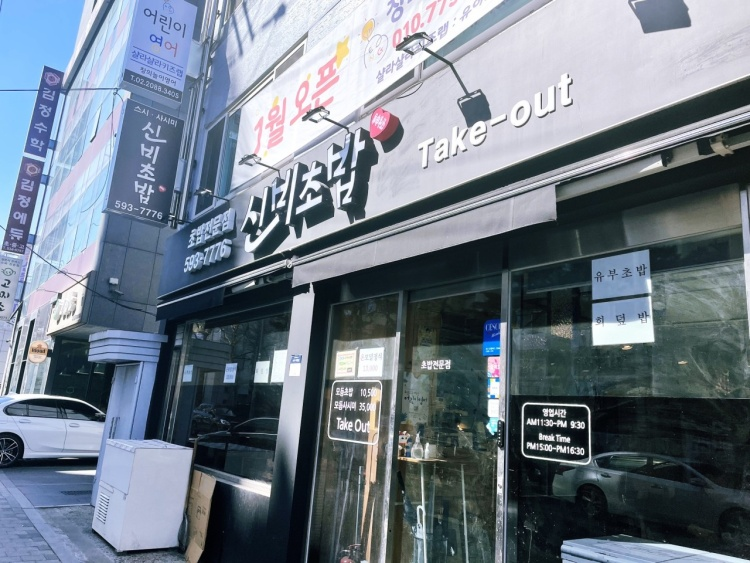
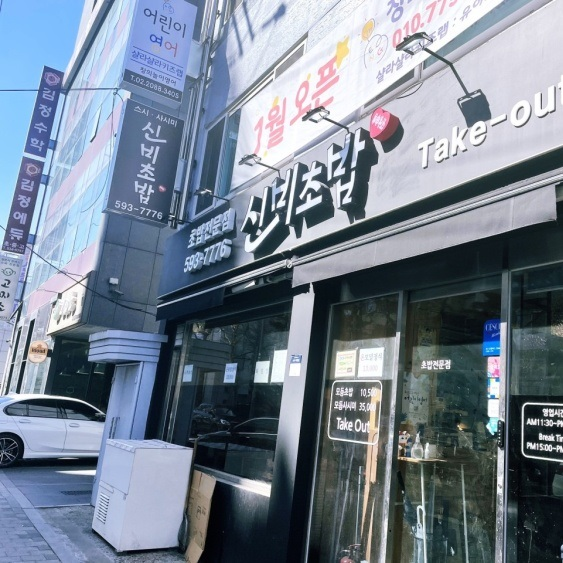
-static/image 치수 조정 -homepage 빈칸 수기로 작성

diff --git a/templates/home.html b/templates/home.html
@@ -78,21 +78,21 @@
                     </form>
 <!--                    음식점 태그-->
                     <p class="lead fw-normal text-white-50 mb-0" id="tag">
-<!--                        <a class="text-white mb-0" href="#!" style = "text-decoration:none">#tag</a>-->
-<!--                        <a class="text-white mb-0" href="#!" style = "text-decoration:none">#tag</a>-->
-<!--                        <a class="text-white mb-0" href="#!" style = "text-decoration:none">#tag</a>-->
-<!--                        <a class="text-white mb-0" href="#!" style = "text-decoration:none">#tag</a>-->
-<!--                        <a class="text-white mb-0" href="#!" style = "text-decoration:none">#tag</a>-->
+                        <a class="text-white mb-0" href="#!" style = "text-decoration:none">#중식</a>
+                        <a class="text-white mb-0" href="#!" style = "text-decoration:none">#양식</a>
+                        <a class="text-white mb-0" href="#!" style = "text-decoration:none">#흡연가능</a>
+                        <a class="text-white mb-0" href="#!" style = "text-decoration:none">#피자</a>
+                        <a class="text-white mb-0" href="#!" style = "text-decoration:none">#한식</a>
                     </p>
                 </div>
             </div>
         </header>
         <!-- Section-->
             <div id="sidebar" style="margin:0; border:0; padding-top:0; padding-bottom:0rem; width:18.7rem; height: 100%; background-color: #BDBDBD; float:left">
-                <div style="margin: 10px; margin-top: 3rem; margin-bottom: 4rem">
+                <div style="margin: 10px; margin-top: 3rem; margin-bottom: 2rem">
                         <div style="height: 100%">
                             <!-- Product image-->
-                            <img class="card-img-top" src="/static/img/burger.jpg" alt="..." />
+                            <img class="card-img-top" src="/static/img/rest01img1.jpg" alt="..." />
                             <!-- Product details-->
                             <div class="card-body p-4">
                                 <div class="text-center">
@@ -114,9 +114,9 @@
                             </div>
                         </div>
                     </div>
-                    <div style="margin: 10px; margin-top: 3rem; margin-bottom: 5.8rem">
+                    <div style="margin: 10px; margin-top: 3rem; margin-bottom: 4.8rem">
                         <div style="height: 100%">
-                            <img class="card-img-top" src="/static/img/burger.jpg" alt="..." />
+                            <img class="card-img-top" src="/static/img/rest10img1.jpg" alt="..." />
                             <div class="card-body p-4">
                                 <div class="text-center">
                                     <h5 class="fw-bolder">리뷰가 없어요</h5>
@@ -140,17 +140,41 @@
         <section class="py-5">
             <div class="container px-4 px-lg-5 mt-5">
                 <div class="row gx-4 gx-lg-5 row-cols-2 row-cols-md-3 row-cols-xl-4 justify-content-center">
+                    <div class="col mb-5" >
+                        <div class="card h-100" id="rest_img">
 
+                            <img class="card-img-top" src="/static/img/rest02img1.jpg" alt="..." />
+                                <div class="card-body p-4">
+                                    <div class="text-center" id="rest_name">
+                                        <h5 class="fw-bolder">파더스김밥</h5>
+                                        <div class="d-flex justify-content-center small text-warning mb-2" id="star_rating">
+                                        <div class="bi-star-fill"></div>
+                                        <div class="bi-star-fill"></div>
+                                        <div class="bi-star-fill"></div>
+                                        <div class="bi-star-half"></div>
+                                        <div class="bi-star"></div>
+                                                    </div>
+                                                </div>
+                                              </div>
+                                            <div class="card-footer p-4 pt-0 border-top-0 bg-transparent">
+                                       <div class="text-center"><a class="btn btn-outline-dark mt-auto" href="/restDetail">View details</a></div>
+                                   </div>
+                            </div>
+                      </div>
 
                     <div class="col mb-5" >
                         <div class="card h-100" id="rest_img">
 
-<!--                            <img class="card-img-top" src="/static/img/burger.jpg" alt="..." />-->
+                            <img class="card-img-top" src="/static/img/rest03img1.jpg" alt="..." />
                                 <div class="card-body p-4">
                                     <div class="text-center" id="rest_name">
-<!--                                        <h5 class="fw-bolder">이름이들어가야지</h5>-->
+                                        <h5 class="fw-bolder">이디야커피</h5>
                                         <div class="d-flex justify-content-center small text-warning mb-2" id="star_rating">
-
+                                        <div class="bi-star-fill"></div>
+                                        <div class="bi-star-fill"></div>
+                                        <div class="bi-star-fill"></div>
+                                        <div class="bi-star-fill"></div>
+                                        <div class="bi-star"></div>
                                                     </div>
                                                 </div>
                                               </div>
@@ -163,12 +187,16 @@
                         <div class="card h-100" id="rest_img">
 
 
-<!--                            <img class="card-img-top" src="/static/img/burger.jpg" alt="..." />-->
+                            <img class="card-img-top" src="/static/img/rest04img1.jpg" alt="..." />
                                 <div class="card-body p-4">
                                     <div class="text-center" id="rest_name">
-<!--                                        <h5 class="fw-bolder">이름이들어가야지</h5>-->
+                                        <h5 class="fw-bolder">신비초밥</h5>
                                         <div class="d-flex justify-content-center small text-warning mb-2" id="star_rating">
-
+                                        <div class="bi-star-fill"></div>
+                                        <div class="bi-star-fill"></div>
+                                        <div class="bi-star-fill"></div>
+                                        <div class="bi-star-fill"></div>
+                                        <div class="bi-star-fill"></div>
                                                     </div>
                                                 </div>
                                               </div>
@@ -181,12 +209,16 @@
                         <div class="card h-100" id="rest_img">
 
 
-<!--                            <img class="card-img-top" src="/static/img/burger.jpg" alt="..." />-->
+                            <img class="card-img-top" src="/static/img/rest05img1.jpg" alt="..." />
                                 <div class="card-body p-4">
                                     <div class="text-center" id="rest_name">
-<!--                                        <h5 class="fw-bolder">이름이들어가야지</h5>-->
+                                        <h5 class="fw-bolder">후라이드참잘하는집</h5>
                                         <div class="d-flex justify-content-center small text-warning mb-2" id="star_rating">
-
+                                        <div class="bi-star-fill"></div>
+                                        <div class="bi-star-fill"></div>
+                                        <div class="bi-star-fill"></div>
+                                        <div class="bi-star-fill"></div>
+                                        <div class="bi-star-half"></div>
                                                     </div>
                                                 </div>
                                               </div>
@@ -199,12 +231,16 @@
                         <div class="card h-100" id="rest_img">
 
 
-<!--                            <img class="card-img-top" src="/static/img/burger.jpg" alt="..." />-->
+                            <img class="card-img-top" src="/static/img/rest06img1.jpg" alt="..." />
                                 <div class="card-body p-4">
                                     <div class="text-center" id="rest_name">
-<!--                                        <h5 class="fw-bolder">이름이들어가야지</h5>-->
+                                        <h5 class="fw-bolder">빅스타피자</h5>
                                         <div class="d-flex justify-content-center small text-warning mb-2" id="star_rating">
-
+                                        <div class="bi-star-fill"></div>
+                                        <div class="bi-star-fill"></div>
+                                        <div class="bi-star-fill"></div>
+                                        <div class="bi-star-fill"></div>
+                                        <div class="bi-star-fill"></div>
                                                     </div>
                                                 </div>
                                               </div>
@@ -217,12 +253,16 @@
                         <div class="card h-100" id="rest_img">
 
 
-<!--                            <img class="card-img-top" src="/static/img/burger.jpg" alt="..." />-->
+                            <img class="card-img-top" src="/static/img/rest07img1.jpg" alt="..." />
                                 <div class="card-body p-4">
                                     <div class="text-center" id="rest_name">
-<!--                                        <h5 class="fw-bolder">이름이들어가야지</h5>-->
+                                        <h5 class="fw-bolder">미스사이공</h5>
                                         <div class="d-flex justify-content-center small text-warning mb-2" id="star_rating">
-
+                                        <div class="bi-star-fill"></div>
+                                        <div class="bi-star-fill"></div>
+                                        <div class="bi-star-fill"></div>
+                                        <div class="bi-star-fill"></div>
+                                        <div class="bi-star-fill"></div>
                                                     </div>
                                                 </div>
                                               </div>
@@ -235,12 +275,16 @@
                         <div class="card h-100" id="rest_img">
 
 
-<!--                            <img class="card-img-top" src="/static/img/burger.jpg" alt="..." />-->
+                            <img class="card-img-top" src="/static/img/rest08img1.jpg" alt="..." />
                                 <div class="card-body p-4">
                                     <div class="text-center" id="rest_name">
-<!--                                        <h5 class="fw-bolder">이름이들어가야지</h5>-->
+                                        <h5 class="fw-bolder">매드포갈릭</h5>
                                         <div class="d-flex justify-content-center small text-warning mb-2" id="star_rating">
-
+                                        <div class="bi-star-fill"></div>
+                                        <div class="bi-star-fill"></div>
+                                        <div class="bi-star-fill"></div>
+                                        <div class="bi-star"></div>
+                                        <div class="bi-star"></div>
                                                     </div>
                                                 </div>
                                               </div>
@@ -253,30 +297,16 @@
                         <div class="card h-100" id="rest_img">
 
 
-<!--                            <img class="card-img-top" src="/static/img/burger.jpg" alt="..." />-->
+                            <img class="card-img-top" src="/static/img/rest09img1.jpg" alt="..." />
                                 <div class="card-body p-4">
                                     <div class="text-center" id="rest_name">
-<!--                                        <h5 class="fw-bolder">이름이들어가야지</h5>-->
+                                        <h5 class="fw-bolder">파크루안</h5>
                                         <div class="d-flex justify-content-center small text-warning mb-2" id="star_rating">
-
-                                                    </div>
-                                                </div>
-                                              </div>
-                                            <div class="card-footer p-4 pt-0 border-top-0 bg-transparent">
-                                       <div class="text-center"><a class="btn btn-outline-dark mt-auto" href="/restDetail">View details</a></div>
-                                   </div>
-                            </div>
-                      </div>
-                    <div class="col mb-5" >
-                        <div class="card h-100" id="rest_img">
-
-
-<!--                            <img class="card-img-top" src="/static/img/burger.jpg" alt="..." />-->
-                                <div class="card-body p-4">
-                                    <div class="text-center" id="rest_name">
-<!--                                        <h5 class="fw-bolder">이름이들어가야지</h5>-->
-                                        <div class="d-flex justify-content-center small text-warning mb-2" id="star_rating">
-
+                                        <div class="bi-star"></div>
+                                        <div class="bi-star"></div>
+                                        <div class="bi-star"></div>
+                                        <div class="bi-star"></div>
+                                        <div class="bi-star"></div>
                                                     </div>
                                                 </div>
                                               </div>

diff --git a/web/views.py b/web/views.py
@@ -16,11 +16,9 @@ class MyView(View):
     def home(self, request):
         rest = Rest.objects.all();
         star_rating = Review.objects.all();
-        imgpath = Imgpath.objects.all();
+
         context = {
-            'rest': rest,
-            'star_rating': star_rating,
-            'imgpath': imgpath
+            'star_rating': star_rating
         };
 
         return render(request, 'home.html', context);
